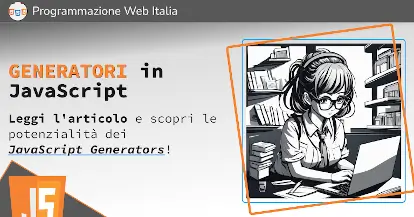
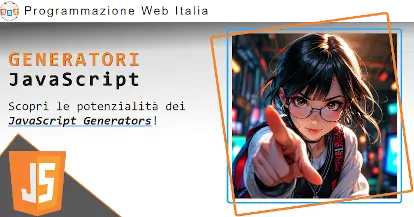
Fix Share and Coffee + Marisa talks

diff --git a/styles/post.css b/styles/post.css
@@ -34,18 +34,27 @@ article .intro {
   text-align: center;
 
   font-size: var(--font-size-bigger);
-  line-height: 150%;
+  line-height: 130%;
+
+  position: relative;
+}
+article .intro img {
+  position: absolute;
+  right: 0;
+  bottom: -88px;
+  border: 3px solid var(--dark-gray);
+  border-radius: 50%;
 }
 article .intro:before {
   content: "\201C";
-  font-size: calc( var(--font-size-biggest) * 1.5 );
+  font-size: calc( var(--font-size-biggest) * 2 );
   position: absolute;
   left: 0;
   top: 0;
 }
 article .intro:after {
   content: "\201C";
-  font-size: calc( var(--font-size-biggest) * 1.5 );
+  font-size: calc( var(--font-size-biggest) * 2 );
   transform: rotate(180deg);
   position: absolute;
   left: 0;
@@ -141,8 +150,13 @@ article .otherwise {
   font-weight: 550;
 }
 
-@media screen and (max-width: 1366px) {
-
+@media screen and (max-width: 1440px) {
+  article .intro img {
+    width: 80px;
+    height: auto;
+    bottom: -66px;
+    border: 2px solid var(--dark-gray);
+  }
 }
 
 @media screen and (max-width: 1024px) {
@@ -165,5 +179,9 @@ article .otherwise {
   }
   article .img-wrapper {
     flex-direction: column;
+  }
+  article .intro img {
+    width: 60px;
+    bottom: -60px;
   }
 }

diff --git a/components/shared/share/share.css b/components/shared/share/share.css
@@ -4,11 +4,6 @@
   border: none;
   border-top: 1px solid var(--blue);
   background-color: rgba(2, 89, 139, .03);
-
-  background-image: url('/assets/images/marisa-share-s.webp');
-  background-repeat: no-repeat;
-  background-size: 260px;
-  background-position: 100% 100%;
 }
 #share::before {
   content: none;
@@ -30,30 +25,15 @@
 #share {
   width: auto!important;
   border-right: none!important;
-  padding-bottom: var(--xx-large-space);
+  padding-bottom: 0;
 }
 
-@media screen and (max-width: 1440px) {
-  #share {
-    background-size: 220px;
-    background-position: 108% 100%;
-  }
+#share picture {
+  display: flex;
+  justify-content: flex-end;
 }
-@media screen and (max-width: 1024px) {
-  #share {
-    background-size: 190px;
-    background-position: 105% 100%;
-  }
-}
-@media screen and (max-width: 768px) {
-  #share {
-    margin: var(--x-large-space) 0;
-
-    background-position: 108% 80px;
-  }
-}
-@media screen and (max-width: 414px) {
-  #share {
-    background-position: 120% 70px
-  }
+#marisa-share {
+  width: 100%;
+  height: auto;
+  max-width: 16rem;
 }

diff --git a/components/shared/coffee/coffee.css b/components/shared/coffee/coffee.css
@@ -51,12 +51,3 @@
   border-radius: var(--border-radius-small);
   max-width: 16rem;
 }
-
-@media screen and (max-width: 768px) {
-  aside#coffee {
-    margin: var(--x-large-space) 0;
-  }
-  #coffee #cup {
-    width: 30%;
-  }
-}
